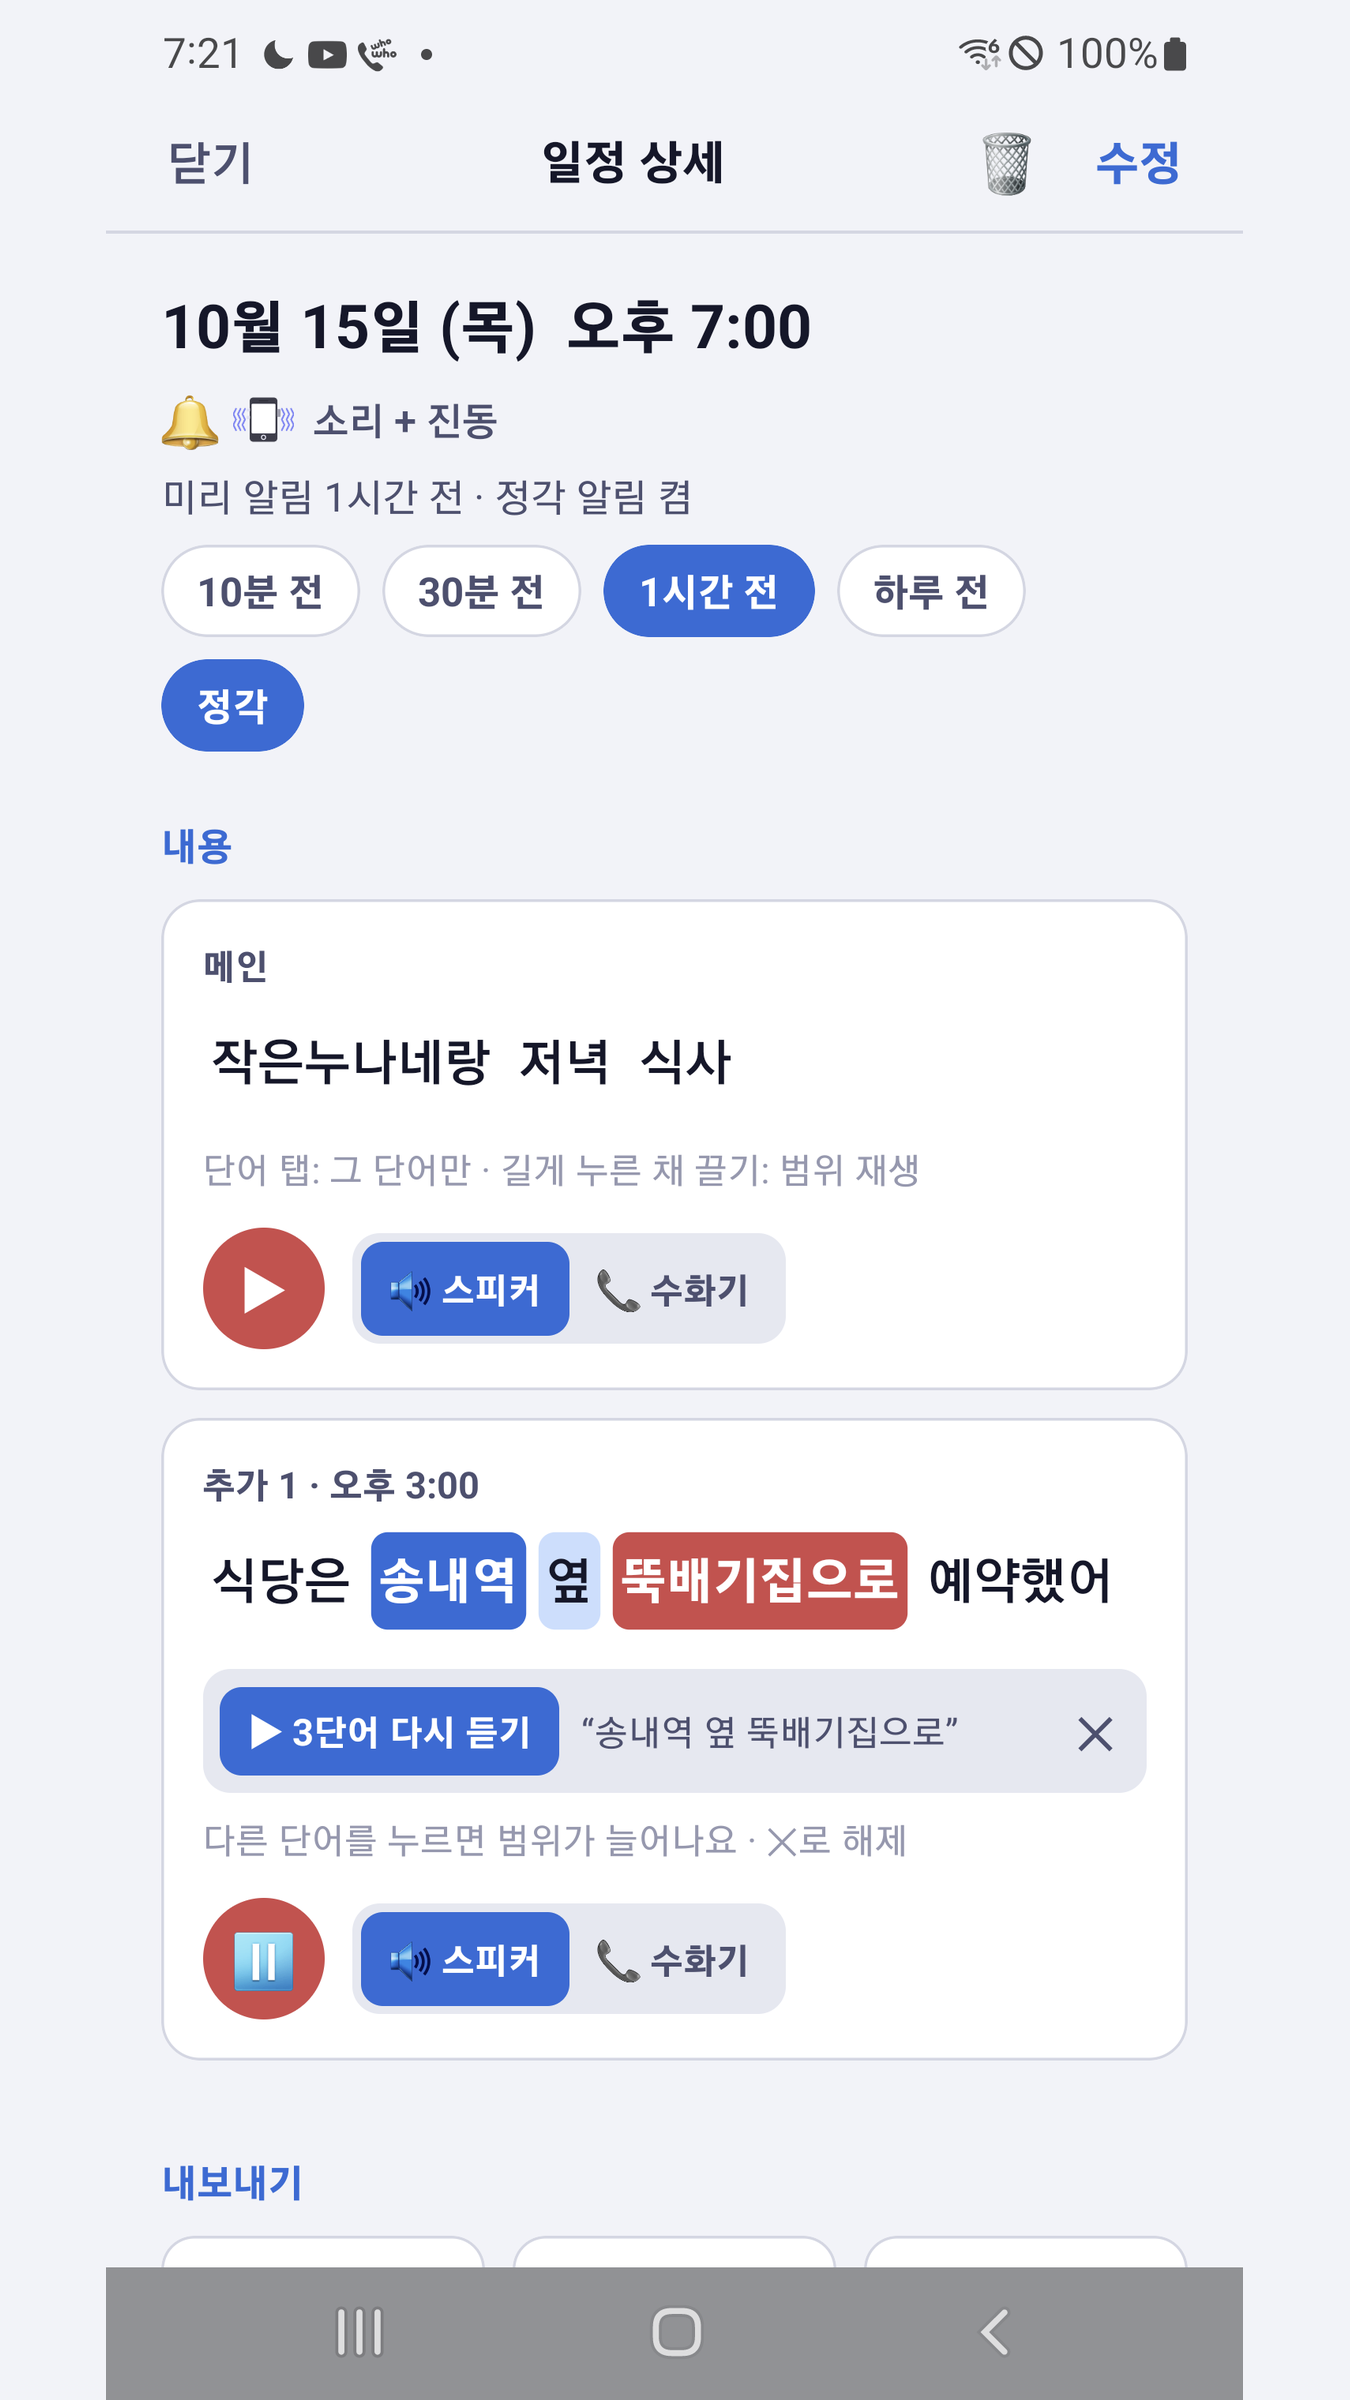
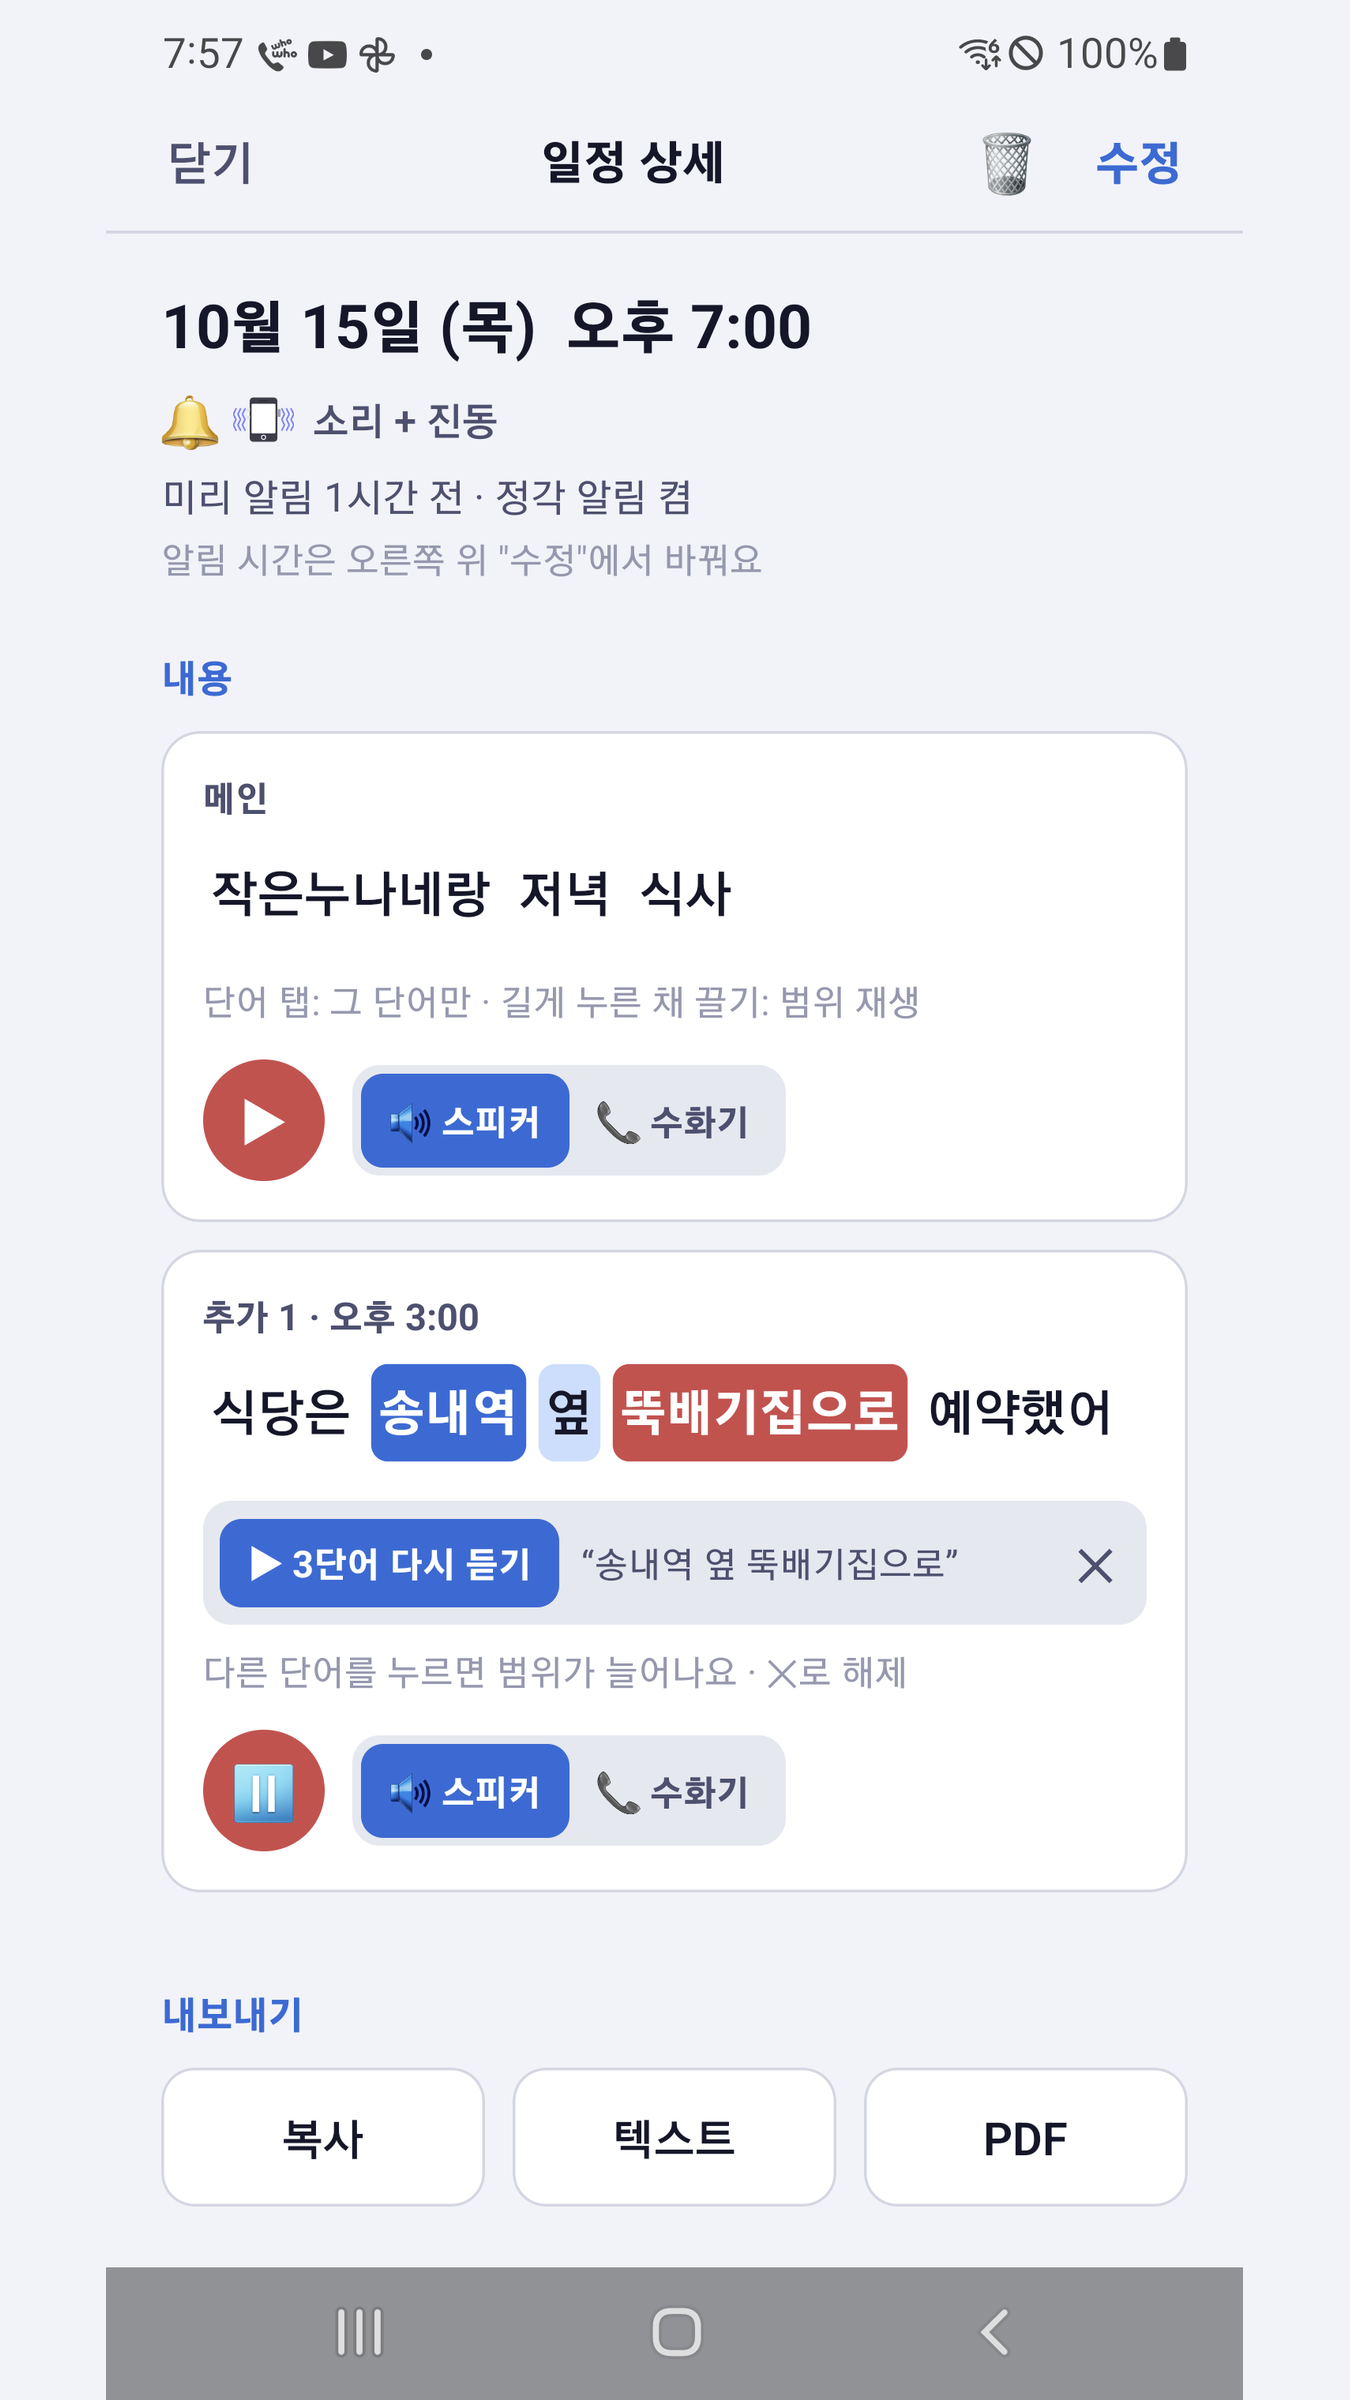
docs: 스크린샷 03(상세)·04(수정) 재촬영 — 한 화면 수정 반영

diff --git a/docs/PLAY_CONSOLE_GUIDE.md b/docs/PLAY_CONSOLE_GUIDE.md
@@ -150,8 +150,8 @@ cd android && ./gradlew bundleRelease
 |---|---|
 | 01_list | 일정 목록(녹음 시각으로 저장된 메모, 알람·미리 알림, 하루 전 알림 줄) |
 | 02_speaking | 말하는 중: "10분 전에 알려 줘"까지 인식 |
-| 03_detail_replay | 상세: 단어 구간 다시 듣기 |
-| 04_editor | 수정: 날짜·시간 휠·알림, "눌러서 말하기", "▶ 녹음 듣기" |
+| 03_detail_replay | 상세(보기·듣기 전용): 단어 구간 다시 듣기 |
+| 04_editor | 수정: 날짜·시간·알림·내용을 한 화면에서, "＋ 말로 덧붙이기", "▶ 녹음 듣기" |
 | 05_calendar_week | 주 보기 달력 |
 | 06_all_search | 전체 일정: 검색·기간·내보내기 |
 | 07_settings | 설정: 테마·글자 크기·9개 언어 |
